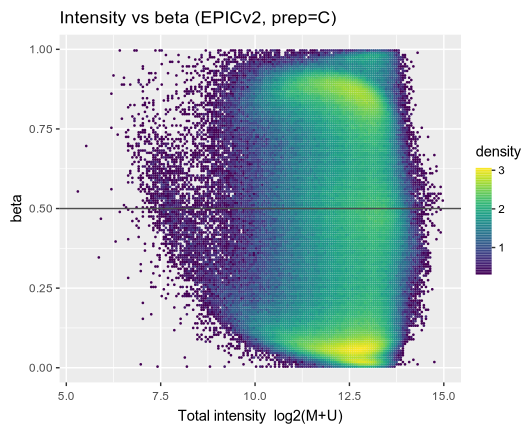
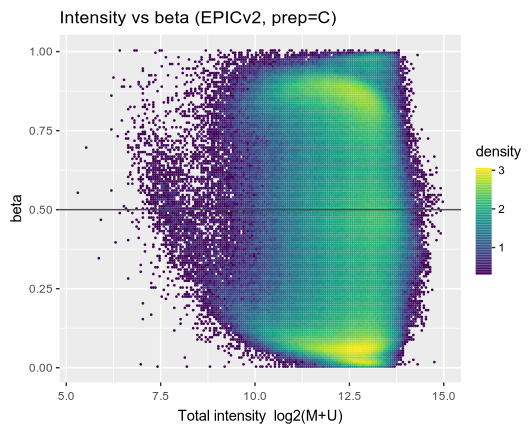
docs: drop --platform from the QC snippets, do the reshaping in tabl
Two fixes to the QC examples, both things the snippets were papering over.

--platform is gone: attach-probe infers the ordering from the row count now,
so the shorter spelling is the real one.

The reshape was a comment -- '# join to the ordering's col, sort each
channel's {M,U}, pair quantiles' -- which is not a command anyone can run.
It is tabl now, and the whole chain is real:

  Q-Q: join the ordering's channel column, longer to pool each channel's
  {M,U}, summarize -g col with quantile(sig,p) for a 51-point grid, then
  longer+wider to sit R against G. No R, no python, no awk beyond generating
  the quantile list -- and summarize alone already shows the bias (red
  quartiles 393/3133/6796 vs green 219/2660/5903).

  Intensity-beta: join M/U to beta, mutate the bin indices, count them,
  mutate back to bin centres.

Figures regenerated from those pipelines: the Q-Q is now 51 quantile points
rather than 91,384 overplotted ones, which is both the correct object and
legible. sesame -> tabl -> cinderplot end to end.

diff --git a/docs/index.html b/docs/index.html
@@ -265,18 +265,27 @@ yame unpack beta.cg | cinderplot --no-header \
     <p>The two diagnostics from sesame's
       <a href="https://zhou-lab.github.io/sesame-docs/dev/supplemental.html">supplemental QC</a>,
       with no R in the loop: <code class="inl">preprocess</code> writes the signals,
-      <code class="inl">attach-probe</code> labels them, and
+      <code class="inl">attach-probe</code> labels them,
+      <a href="https://github.com/zhou-lab/tabl">tabl</a> reshapes them, and
       <a href="https://github.com/zhou-lab/cinderplot">cinderplot</a> draws them.</p>
     <figure>
       <div class="shot" tabindex="0">
         <img src="figures/qc_dyebias_qq.png" alt="Dye bias Q-Q plot, Infinium-I red versus green signal">
         <button class="zoom" type="button" data-full="figures/qc_dyebias_qq.png" title="expand">⤢</button>
-        <div class="code"><pre><code><span class="cm"># Infinium-I in-band signal, split by channel, paired at matched quantiles</span>
-sesame <span class="sub">preprocess</span> --prep C --output intensity --out qc/ $PFX
-sesame <span class="sub">attach-probe</span> --platform EPICv2 qc/intensity.cg &gt; qc/mu.tsv
-<span class="cm"># join to the ordering's col, sort each channel's {M,U}, pair quantiles -&gt; qq.tsv</span>
+        <div class="code"><pre><code>sesame <span class="sub">preprocess</span> --prep C --output intensity --out qc/ $PFX
+sesame <span class="sub">attach-probe</span> qc/intensity.cg | tail -n +2 &gt; qc/mu.tsv
 
-cinderplot 'qq.tsv + aes(red, grn) + geom_point(size=0.4)
+<span class="cm"># pool each channel's in-band {M,U}, read off a matched quantile grid</span>
+QS=$(seq 0 0.02 1 | awk '{printf " q%03d=quantile(sig,%s)", NR, $1}')
+{ printf 'Probe_ID\tM\tU\tcol\n'
+  <b>tabl</b> join -H -k V1 --inner qc/mu.tsv \
+    &lt;(zcat $STORE/EPICv2/EPICv2.ordering.tsv.gz | tail -n +2 | cut -f1,4); } \
+| <b>tabl</b> filter 'col=="R" || col=="G"' | <b>tabl</b> longer -c M,U -v sig \
+| <b>tabl</b> summarize -g col $QS \
+| <b>tabl</b> longer -c 2:52 -n q -v sig | <b>tabl</b> wider -n col -v sig \
+| <b>tabl</b> select 'R,G' &gt; qq.tsv
+
+cinderplot 'qq.tsv + aes(R, G) + geom_point(size=1.2)
   + geom_abline(slope=1, intercept=0, colour="grey40")
   + labs(x="Infinium-I Red signal", y="Infinium-I Grn signal")' qq.png --size 5x5</code></pre></div>
       </div>
@@ -289,11 +298,19 @@ cinderplot 'qq.tsv + aes(red, grn) + geom_point(size=0.4)
         <img src="figures/qc_intens_beta.png" alt="Total intensity versus beta, as a binned density">
         <button class="zoom" type="button" data-full="figures/qc_intens_beta.png" title="expand">⤢</button>
         <div class="code"><pre><code>sesame <span class="sub">preprocess</span> --prep C --output intensity,beta --out qc/ $PFX
-sesame <span class="sub">attach-probe</span> --platform EPICv2 qc/intensity.cg &gt; qc/mu.tsv
-sesame <span class="sub">attach-probe</span> --platform EPICv2 qc/beta.cg      &gt; qc/beta.tsv
-<span class="cm"># total = M+U; bin log2(total) x beta onto a grid -&gt; ib_density.tsv</span>
+sesame <span class="sub">attach-probe</span> qc/intensity.cg | tail -n +2 &gt; qc/mu.tsv
+sesame <span class="sub">attach-probe</span> qc/beta.cg      | tail -n +2 &gt; qc/beta.tsv
 
-cinderplot 'ib_density.tsv + aes(logint, beta, colour=density) + geom_point(size=0.7)
+<span class="cm"># join, then bin log2(M+U) x beta onto a 180x140 grid</span>
+{ printf 'Probe_ID\tM\tU\tbeta\n'
+  <b>tabl</b> join -H -k V1 --inner qc/mu.tsv qc/beta.tsv; } \
+| <b>tabl</b> mutate 'logint=log2(M+U)' | <b>tabl</b> filter 'logint&gt;=5 &amp;&amp; logint&lt;=15' \
+| <b>tabl</b> mutate 'xb=floor((logint-5)*18)' 'yb=floor(beta*140)' \
+| <b>tabl</b> count xb,yb \
+| <b>tabl</b> mutate 'logint=5+(xb+0.5)/18' 'beta=(yb+0.5)/140' 'density=log10(n+1)' \
+| <b>tabl</b> select 'logint,beta,density' &gt; qc/ib.tsv
+
+cinderplot 'ib.tsv + aes(logint, beta, colour=density) + geom_point(size=0.7)
   + geom_hline(yintercept=0.5, colour="grey30") + scale_colour_viridis()
   + labs(x="Total intensity  log2(M+U)", y="beta")' ib.png --size 5.5x4.5</code></pre></div>
       </div>
